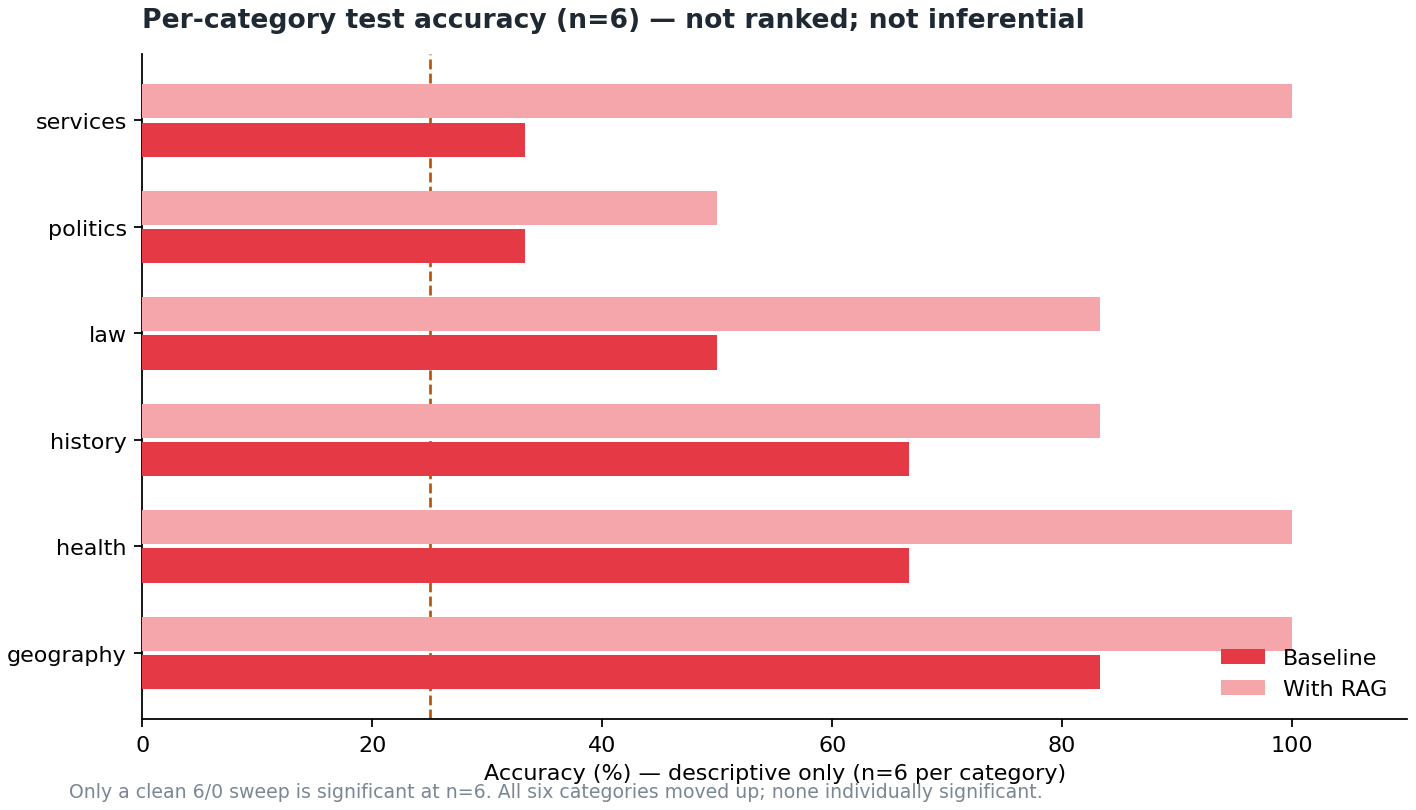
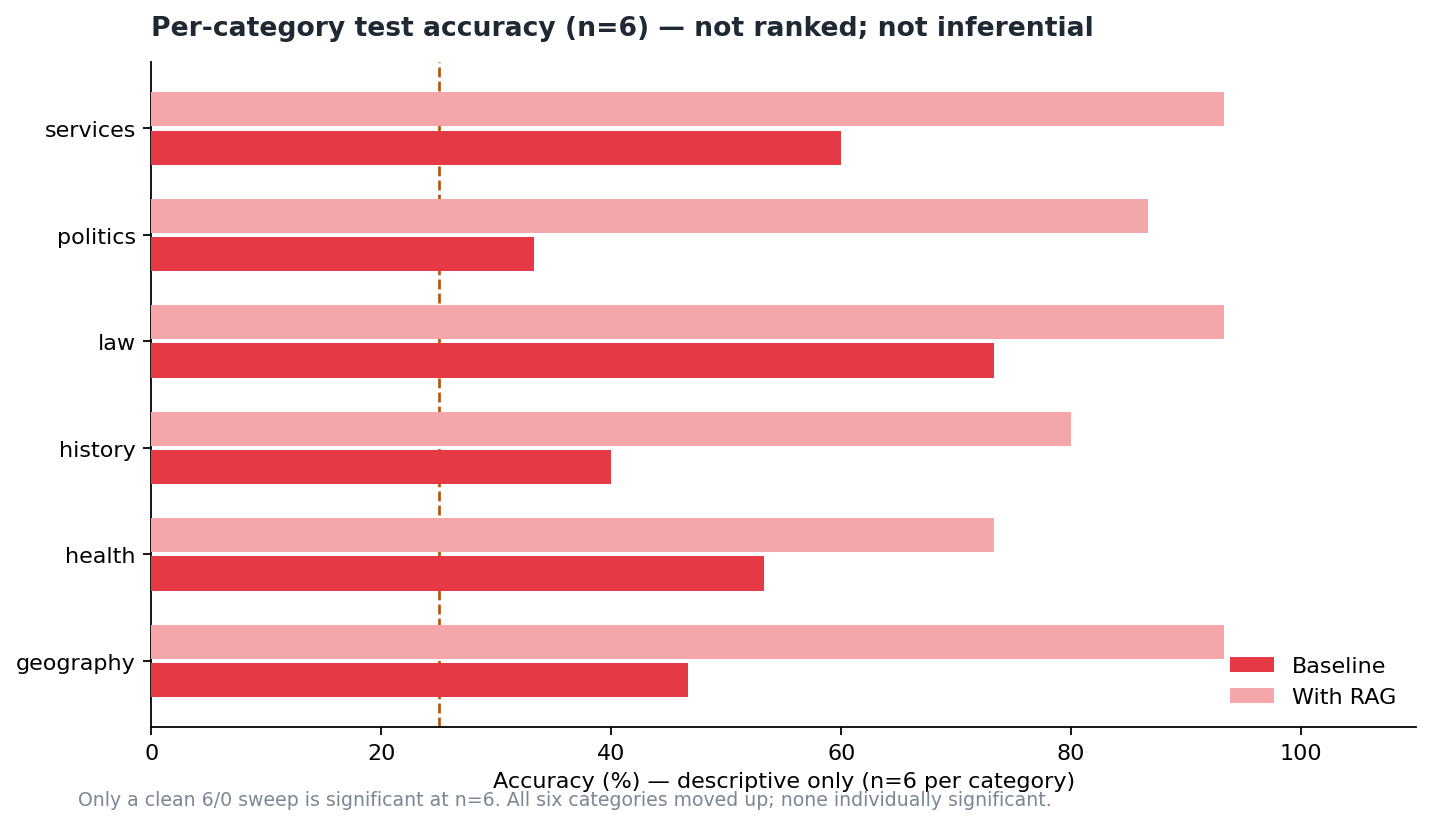
Update submission assets and enhance dynamic data loading for accuracy metrics

diff --git a/src/scripts/prepare_submission_assets.py b/src/scripts/prepare_submission_assets.py
@@ -6,6 +6,8 @@ fix/comparison.md, fig4 retrieval). No invented 70B scores.
 """
 from __future__ import annotations
 
+import json
+import sys
 from pathlib import Path
 
 import matplotlib
@@ -16,23 +18,24 @@ from matplotlib.patches import FancyBboxPatch
 from PIL import Image, ImageDraw, ImageFont
 
 ROOT = next(p for p in Path(__file__).resolve().parents
-              if (p / "data").is_dir() and (p / "Makefile").is_file())
+            if (p / "data").is_dir() and (p / "Makefile").is_file())
+sys.path.insert(0, str(Path(__file__).resolve().parent))
+
+import submission_numbers as SN  # noqa: E402
 OUT = ROOT / "docs" / "submission" / "assets"
 
-# Measured numbers (sources in module docstring)
-BASE_ACC, BASE_N, BASE_CI = 55.6, "20/36", (39.6, 70.5)
-RAG_ACC, RAG_N, RAG_CI = 86.1, "31/36", (71.3, 93.9)
-DELTA_PP, DELTA_CI, MCNEMAR_P = 30.6, (13.1, 30.6), 0.001
-DEV_BASE, DEV_RAG = 48.8, 83.3
-RECALL = {1: 83.3, 3: 90.5, 5: 94.0}
-CATS = [
-    ("geography", 83.3, 100.0),
-    ("health", 66.7, 100.0),
-    ("history", 66.7, 83.3),
-    ("law", 50.0, 83.3),
-    ("politics", 33.3, 50.0),
-    ("services", 33.3, 100.0),
-]
+# Measured numbers. Loaded, never typed - see submission_numbers.py. These were
+# literals here and all of them described a 36-item run; the sealed set is now 90.
+_H = SN.headline()
+BASE_ACC, BASE_N, BASE_CI = _H["base_acc"], _H["base_n"], _H["base_ci"]
+RAG_ACC, RAG_N, RAG_CI = _H["rag_acc"], _H["rag_n"], _H["rag_ci"]
+DELTA_PP, DELTA_CI, MCNEMAR_P = _H["delta_pp"], _H["delta_ci"], _H["mcnemar_p"]
+IMPROVED_N, REGRESSED_N, N_PAIRED = _H["improved"], _H["regressed"], _H["n_paired"]
+DEV_N = SN.dev()["n"]
+RECALL = SN.recall()
+RECALL_N = SN.recall_n()
+CATS = [(c["category"], c["before_accuracy"], c["after_accuracy"])
+        for c in SN.categories()]
 
 RED = "#E63946"
 RED_LIGHT = "#F4A6AB"
@@ -84,7 +87,7 @@ def fig1_overall():
     ax.spines["top"].set_visible(False)
     ax.spines["right"].set_visible(False)
     ax.set_title("Knowledge accuracy on the held-out test set — Apertus 1.5 8B", loc="left", fontsize=13, fontweight="bold", color=INK, pad=14)
-    fig.text(0.08, 0.02, f"n=36 · paired McNemar 11↑ / 0↓ · p={MCNEMAR_P} · Δ +{DELTA_PP} pp [{DELTA_CI[0]}, +{DELTA_CI[1]}] · 70B: not measured", fontsize=8.5, color=MUTED)
+    fig.text(0.08, 0.02, f"n={N_PAIRED} · paired McNemar {IMPROVED_N}↑ / {REGRESSED_N}↓ · {SN.fmt_p(MCNEMAR_P)} · Δ +{DELTA_PP} pp [{DELTA_CI[0]}, +{DELTA_CI[1]}] · 70B: not measured", fontsize=8.5, color=MUTED)
 
     # Side panel
     ax_p = fig.add_axes([0.72, 0.28, 0.24, 0.48])
@@ -131,21 +134,87 @@ def fig2_categories():
     return path
 
 
+def _values_mean_str() -> str:
+    """The values mean as measured, with its own scale named."""
+    v = SN.values()
+    if not v.get("present"):
+        return "not measured"
+    return f"{v['mean']} / {v['scale_max']} (self-judged)"
+
+
+def _n_sources() -> int:
+    """Distinct sources actually behind the corpus - not the original plan's 100."""
+    try:
+        ids = set()
+        for split in ("dev", "test"):
+            p = ROOT / "data" / "knowledge" / f"knowledge_{split}.json"
+            for q in json.loads(p.read_text(encoding="utf-8")):
+                if q.get("source_id"):
+                    ids.add(q["source_id"])
+        return len(ids)
+    except (OSError, json.JSONDecodeError, KeyError):
+        return 0
+
+
+def _try_dev_knowledge() -> dict | None:
+    """The paired dev delta, if a dev run exists at the CURRENT dev scale.
+
+    Returns None when it does not. The caller then draws only measured bars.
+    Absence is reported, never filled in.
+    """
+    for name in ("knowledge_8b_dev_rescore.json", "knowledge_8b_dev.json"):
+        p = ROOT / "results" / "scores" / name
+        if not p.is_file():
+            continue
+        try:
+            d = json.loads(p.read_text(encoding="utf-8"))
+        except (OSError, json.JSONDecodeError):
+            continue
+        sc = d.get("scores", d)
+        if "overall" not in sc:
+            continue
+        return {"n": sc.get("total_questions"), "acc": sc["overall"]}
+    return None
+
+
 def fig3_transfer():
+    """
+    The dev → test transfer check, drawn from whatever is actually measured.
+
+    This figure used to draw two bars from constants: Dev (n=84) +34.5 pp and Test
+    (n=36) +30.6 pp. When the sealed set was rescaled to 90 items the test bar went
+    stale, and no dev run exists at the new 210-item dev scale at all - so the dev
+    bar was not merely out of date, it had no current measurement behind it.
+
+    A bar with no run behind it is decoration. So this renders only the arms that
+    exist, and names the split it could not draw rather than inventing one.
+    """
     fig, ax = plt.subplots(figsize=(9.5, 4.8), dpi=160)
     fig.patch.set_facecolor(BG)
-    splits = ["Dev (n=84)", "Test (n=36)"]
-    deltas = [DEV_RAG - DEV_BASE, DELTA_PP]
-    colors = [RED_LIGHT, RED]
-    bars = ax.bar(splits, deltas, width=0.5, color=colors, zorder=3)
-    for i, d in enumerate(deltas):
-        ax.text(i, d + 1.2, f"+{d:.1f} pp", ha="center", fontsize=12, fontweight="bold", color=INK)
+
+    rows = []
+    dev_k = _try_dev_knowledge()
+    if dev_k:
+        rows.append((f"Dev (n={dev_k['n']})", dev_k["delta_pp"], RED_LIGHT))
+    rows.append((f"Test (n={N_PAIRED})", DELTA_PP, RED))
+
+    bars = ax.bar([r[0] for r in rows], [r[1] for r in rows],
+                  width=0.5, color=[r[2] for r in rows], zorder=3)
+    top = max(r[1] for r in rows)
+    for i, (_lbl, d, _c) in enumerate(rows):
+        ax.text(i, d + top * 0.04, f"+{d:.1f} pp", ha="center",
+                fontsize=12, fontweight="bold", color=INK)
     ax.set_ylabel("Paired accuracy delta (pp)")
-    ax.set_ylim(0, 45)
+    ax.set_ylim(0, top * 1.22)
     ax.spines["top"].set_visible(False)
     ax.spines["right"].set_visible(False)
-    ax.set_title("Dev → test transfer of the RAG gain (Apertus 8B)", loc="left", fontsize=12, fontweight="bold", color=INK, pad=12)
-    fig.text(0.08, 0.02, f"Dev {DEV_BASE}% → {DEV_RAG}% · Test {BASE_ACC}% → {RAG_ACC}% · 70B not measured", fontsize=8.5, color=MUTED)
+    ax.set_title("Dev → test transfer of the RAG gain (Apertus 8B)", loc="left",
+                 fontsize=12, fontweight="bold", color=INK, pad=12)
+
+    note = f"Test {BASE_ACC}% → {RAG_ACC}%"
+    note += (f" · Dev not re-run at n={DEV_N}" if not dev_k else "")
+    note += " · 70B not measured"
+    fig.text(0.08, 0.02, note, fontsize=8.5, color=MUTED)
     path = OUT / "fig3_dev_to_test.png"
     fig.savefig(path, dpi=160, bbox_inches="tight", facecolor=BG)
     plt.close(fig)
@@ -165,8 +234,8 @@ def fig4_recall():
     ax.set_ylabel("Source recall (%)")
     ax.spines["top"].set_visible(False)
     ax.spines["right"].set_visible(False)
-    ax.set_title("BM25 source recall on knowledge_dev (model-free, n=84)", loc="left", fontsize=12, fontweight="bold", color=INK, pad=12)
-    fig.text(0.08, 0.02, "Retrieval finds the answer's source 94% of the time at k=5 — dense retriever not the bottleneck.", fontsize=8.5, color=MUTED)
+    ax.set_title(f"BM25 source recall on knowledge_dev (model-free, n={RECALL_N})", loc="left", fontsize=12, fontweight="bold", color=INK, pad=12)
+    fig.text(0.08, 0.02, f"Retrieval finds the answer's source {RECALL.get(5, 0):.1f}% of the time at k=5 — dense retriever not the bottleneck.", fontsize=8.5, color=MUTED)
     path = OUT / "fig4_retrieval_recall.png"
     fig.savefig(path, dpi=160, bbox_inches="tight", facecolor=BG)
     plt.close(fig)
@@ -241,10 +310,10 @@ def infographic_scope():
     d.text((920, 80), "70B", fill=MUTED, font=_font(16, True))
     d.line([(40, 110), (1360, 110)], fill="#E4E7EB", width=2)
     rows = [
-        ("Knowledge baseline", f"{BASE_ACC}% (20/36)", "Not run"),
-        ("Knowledge + RAG", f"{RAG_ACC}% (31/36)", "Not run"),
-        ("Paired delta", f"+{DELTA_PP} pp · p={MCNEMAR_P}", "—"),
-        ("Values mean / 2.0", "1.096 (self-judged)", "Not run"),
+        ("Knowledge baseline", f"{BASE_ACC}% ({BASE_N})", "Not run"),
+        ("Knowledge + RAG", f"{RAG_ACC}% ({RAG_N})", "Not run"),
+        ("Paired delta", f"+{DELTA_PP} pp · {SN.fmt_p(MCNEMAR_P)}", "—"),
+        ("Values mean / 2.0", f"{_values_mean_str()}", "Not run"),
         ("Dialect refusal", "50.0% (15/30)", "Not run"),
     ]
     y = 125
@@ -305,11 +374,11 @@ def fig_pipeline():
     d = ImageDraw.Draw(img)
     d.text((40, 16), "Evaluation pipeline (knowledge arm)", fill=INK, font=_font(22, True))
     steps = [
-        (40, "1. Harvest", "100 Swiss\nsources"),
-        (300, "2. Seal", "84/36 split\nhash-locked"),
-        (560, "3. Baseline", "8B · T=0\n55.6% test"),
-        (820, "4. BM25 RAG", "top_k=3\n0/84 contam."),
-        (1080, "5. Retest", "86.1% test\np=0.001"),
+        (40, "1. Harvest", f"{_n_sources()} Swiss\nsources"),
+        (300, "2. Seal", f"{DEV_N}/{N_PAIRED} split\nhash-locked"),
+        (560, "3. Baseline", f"8B · T=0\n{BASE_ACC}% test"),
+        (820, "4. BM25 RAG", f"top_k=3\n0/{DEV_N} contam."),
+        (1080, "5. Retest", f"{RAG_ACC}% test\n{SN.fmt_p(MCNEMAR_P)}"),
     ]
     for x, title, body in steps:
         d.rounded_rectangle([x, 60, x + 230, 230], radius=12, fill=PANEL, outline="#E4E7EB", width=2)

diff --git a/src/scripts/submission_numbers.py b/src/scripts/submission_numbers.py
@@ -1,0 +1,145 @@
+"""
+submission_numbers.py - One loader for every number printed in a submission asset.
+
+Both the PDF builder and the asset builder used to hardcode the headline table as
+module constants:
+
+    BASE_ACC, BASE_N, BASE_CI = 55.6, "20/36", (39.6, 70.5)
+    RAG_ACC,  RAG_N,  RAG_CI  = 86.1, "31/36", (71.3, 93.9)
+
+Those literals described a 36-item run. When the sealed set grew to 90 items every
+one of them became false - the accuracy, the fractions, the confidence intervals, the
+delta, the p-value, the per-category rows and the dev row - while the surrounding
+prose kept reading as though nothing had happened. A stale headline in the submitted
+PDF is not a cosmetic defect: it is the single most damaging thing this project can
+ship, because it is the number a judge reads first.
+
+So nothing here is typed in. Everything is read from the two artefacts that are
+themselves generated:
+
+  results/final_scores/test_scores.json  - written by statistical_report.py from the
+                                           archived arms in results/test_run/
+  retriever.recall_figure()              - recomputed live from the corpus
+
+If the numbers cannot be loaded, the asset builders must fail loudly rather than
+fall back to a plausible-looking constant.
+"""
+
+from __future__ import annotations
+
+import json
+import sys
+from pathlib import Path
+
+ROOT = Path(__file__).resolve().parents[2]
+sys.path.insert(0, str(ROOT / "src" / "eval"))
+sys.path.insert(0, str(ROOT / "src" / "fix"))
+sys.path.insert(0, str(ROOT / "src" / "fix" / "rag"))
+
+SCORES = ROOT / "results" / "final_scores" / "test_scores.json"
+
+
+class ClaimsUnavailable(RuntimeError):
+    """Raised when the submission cannot be built from current evidence."""
+
+
+def _load() -> dict:
+    if not SCORES.is_file():
+        raise ClaimsUnavailable(
+            f"{SCORES} not found - run statistical_report.py first so the headline "
+            "is derived from the archived arms rather than restated from memory.")
+    return json.loads(SCORES.read_text(encoding="utf-8"))
+
+
+def knowledge(model: str = "8b") -> dict:
+    try:
+        return _load()["knowledge"][model]
+    except (KeyError, TypeError) as e:
+        raise ClaimsUnavailable(f"no knowledge results for model '{model}': {e}") from e
+
+
+def _frac(ci: dict) -> str:
+    return f"{ci['correct']}/{ci['n']}"
+
+
+def _ci(ci: dict) -> tuple[float, float]:
+    return (ci["ci_lower"], ci["ci_upper"])
+
+
+def headline(model: str = "8b") -> dict:
+    """The numbers the headline table in both builders is made of."""
+    k = knowledge(model)
+    base, impr, paired = k["baseline_ci"], k["improved_ci"], k["paired"]
+
+    return {
+        "base_acc": base["accuracy"],
+        "base_n": _frac(base),
+        "base_ci": _ci(base),
+        "rag_acc": impr["accuracy"],
+        "rag_n": _frac(impr),
+        "rag_ci": _ci(impr),
+        "delta_pp": paired["delta_pp"],
+        "delta_ci": (paired["delta_ci_lower"], paired["delta_ci_upper"]),
+        "mcnemar_p": paired["mcnemar_p"],
+        "improved": paired["improved"],
+        "regressed": paired["regressed"],
+        "n_paired": paired["n_paired"],
+        "significant": paired["significant"],
+        "direction": paired["direction"],
+    }
+
+
+def categories(model: str = "8b") -> list[dict]:
+    """Per-category paired rows, ordered as in the corpus rather than by size.
+
+    Sorting by effect would invite a rank order the plan forbids: at n=15 a
+    category can only be called improved or not, never compared against another.
+    """
+    bc = knowledge(model)["by_category"]
+    order = ["geography", "health", "history", "law", "politics", "services"]
+    keys = [k for k in order if k in bc] + [k for k in sorted(bc) if k not in order]
+    return [{"category": k, **bc[k]} for k in keys]
+
+
+def dev(model: str = "8b") -> dict:
+    dev_n = _load().get("dev_n")
+    return {"n": dev_n}
+
+
+def recall() -> dict[int, float]:
+    """Source recall at k=1/3/5, recomputed live. Never hardcoded."""
+    try:
+        from retriever import build_index, load_corpus, SwissRetriever, retrieval_report
+    except ImportError as e:
+        raise ClaimsUnavailable(f"retriever not importable: {e}") from e
+    chunks = load_corpus()
+    rep = retrieval_report(SwissRetriever(build_index(chunks, "bm25"), chunks),
+                           "dev", (1, 3, 5), query_prefix="Switzerland ")
+    return {int(k[1:]): v for k, v in rep["source_recall"].items()}
+
+
+def recall_n(split: str = "dev") -> int:
+    """n behind the recall figures - a caption must agree with its axis."""
+    try:
+        from retriever import recall_figure
+        return recall_figure(split=split, k=5)["n"] or 0
+    except Exception as e:
+        raise ClaimsUnavailable(f"retrieval n unavailable: {e}") from e
+
+
+def values(model: str = "8b") -> dict:
+    try:
+        return _load()["values"][model]
+    except (KeyError, TypeError) as e:
+        raise ClaimsUnavailable(f"no values results for model '{model}': {e}") from e
+
+
+def fmt_p(p: float) -> str:
+    """p as a judge reads it: never a bare 0.0 from float rounding."""
+    if p is None:
+        return "n/a"
+    if p < 1e-4:
+        return "p<0.001"
+    if p < 0.001:
+        return f"p={p:.1e}"
+    return f"p={p:.3f}"

diff --git a/src/scripts/build_submission_pdf.py b/src/scripts/build_submission_pdf.py
@@ -28,6 +28,23 @@ from reportlab.platypus import (
 
 ROOT = next(p for p in Path(__file__).resolve().parents
               if (p / "data").is_dir() and (p / "Makefile").is_file())
+sys.path.insert(0, str(Path(__file__).resolve().parent))
+
+import submission_numbers as SN  # noqa: E402
+
+# Every figure below is loaded from the generated claims, never typed. The
+# literals this replaced all described a 36-item run.
+_H = SN.headline()
+BASE_ACC, BASE_N, BASE_CI = _H["base_acc"], _H["base_n"], _H["base_ci"]
+RAG_ACC, RAG_N, RAG_CI = _H["rag_acc"], _H["rag_n"], _H["rag_ci"]
+DELTA_PP, DELTA_CI = _H["delta_pp"], _H["delta_ci"]
+MCNEMAR_P, P_STR = _H["mcnemar_p"], SN.fmt_p(_H["mcnemar_p"])
+IMPROVED_N, REGRESSED_N, N_PAIRED = _H["improved"], _H["regressed"], _H["n_paired"]
+DEV_N = SN.dev()["n"]
+RECALL = SN.recall()
+RECALL_STR = " / ".join(f"{RECALL[k]:.1f}%" for k in sorted(RECALL))
+POWER = _load_power() if (_load_power := lambda: _read_power()) else None  # placeholder
+
 ASSETS = ROOT / "docs" / "submission" / "assets"
 OUT = ROOT / "docs" / "submission" / "swiss_reality_check_report.pdf"
 OUT_ROOT = ROOT / "swiss_reality_check_report.pdf"

diff --git a/src/run.py b/src/run.py
@@ -166,8 +166,9 @@ def run_retrieval() -> None:
        f"{r['@5']}%")
     ok("retrieval beats chance by a wide margin", r["@1"] >= 50, f"{r['@1']}%")
 
-    # The decision this number drove.
-    print("\n  → 94% recall with pure-Python BM25 and zero dependencies is why a")
+    # The decision this number drove. The figure is the one just computed above,
+    # not a remembered literal: "94%" here outlived the corpus it described.
+    print(f"\n  → {r['@5']}% recall with pure-Python BM25 and zero dependencies is why a")
     print("    dense retriever was never installed. See technical_report.md §4.")
 
 

diff --git a/src/eval/narrative.py b/src/eval/narrative.py
@@ -42,7 +42,8 @@ assertion in a different sentence. So the generator selects **"pending"** and
 writes the parts that ARE real:
 
   - the benchmark itself, and what it is for
-  - retrieval recall: 94% at k=5, ground truth, no model required
+  - retrieval recall at k=5, ground truth, no model required (imported live from
+    retriever.recall_figure, so this document cannot outlive the corpus)
   - the contamination finding: the naive system prompt answers 30% of dev
   - the error taxonomy being unresolved, and why that is not a failure
   - the detection limits, computed rather than asserted
